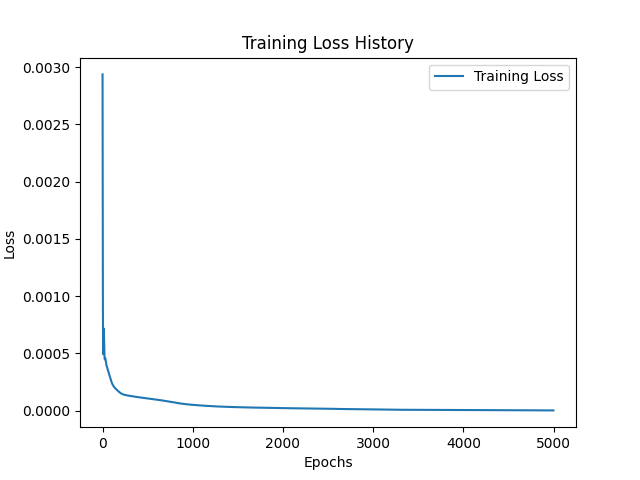
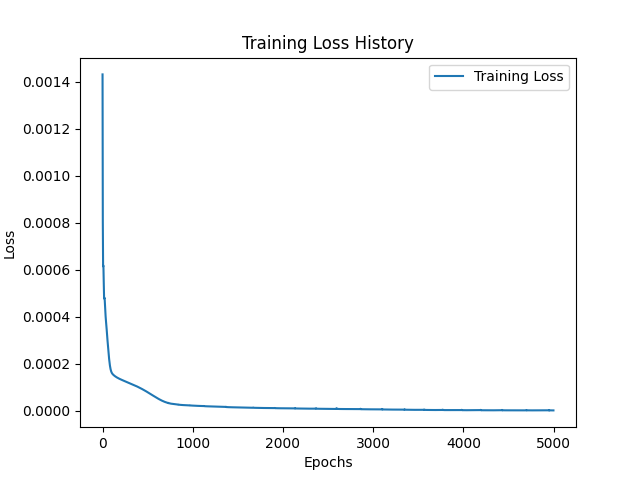
execution without dropout

diff --git a/src/main.py b/src/main.py
@@ -48,6 +48,7 @@ def simu_pinns_tf(train: bool = True,
                   activation_function='tanh',
                   patience: int = 100,  # Early stopping patience
                   use_early_stopping: bool = True,
+                  dropout_rate: float = 0.1,  # rate of neurons to dropout
                   dt: datetime = datetime.now(),
                   verbose: bool = True):
     
@@ -85,7 +86,8 @@ def simu_pinns_tf(train: bool = True,
     if train:
         # Model, optimizer, and training loop
         model = nn_model(input_shape=(3,), layers=[16, 32, 32, 16],
-                         activation_function = activation_function)
+                         activation_function = activation_function,
+                         dropout_rate = dropout_rate)
         optimizer = tf.keras.optimizers.Adam(learning_rate=0.001)
         
         if use_early_stopping:
@@ -127,6 +129,7 @@ def main(
         'epochs': 5000,
         'optimizer': tf.keras.optimizers.Adam(learning_rate=0.001),
         'activation_function':'tanh',
+        'dropout_rate': 0.,  # rate of neurons to dropout
         'patience': 100,  # Early stopping patience
         'use_early_stopping': False, # stop training if there's no improvement
         'verbose': True

diff --git a/src/pinns_tf.py b/src/pinns_tf.py
@@ -13,7 +13,7 @@ def plot_loss_history(history, img_name='PINN_loss_history.png'):
     
 def nn_model(input_shape, layers, 
              activation_function: str = 'tanh',
-             dropout_rate: float = 0.1,  # rate of neurons to dropout
+             dropout_rate: float = 0.0,  # rate of neurons to dropout
              ):
     inputs = tf.keras.layers.Input(shape=input_shape)
     x = inputs
